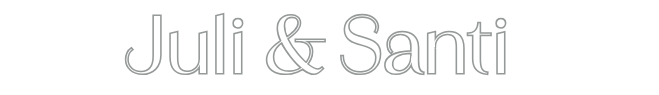
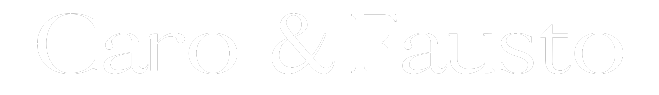
udpate images

diff --git a/frontend/src/components/MainHeadline/MainHeadline.jsx b/frontend/src/components/MainHeadline/MainHeadline.jsx
@@ -2,19 +2,9 @@ const MainHeadline = () => {
    return (
       
       <section className="z-50 flex flex-col items-center gap-5 absolute inset-0 mx-auto top-[40%] lg:top-[35%]">
-         <br></br>
-         <br></br>
-         <br></br>
-         <br></br>
-         <br></br>
-         <br></br>
-         <br></br>
-         <br></br>
-         <br></br>
          <img src="/assets/images/names.png" alt="" className="w-72 lg:w-96"/>
-         <hr className="w-44 border-1 border-green " />
          <h3 className="text-center text-white text-[16px] mt-2 drop-shadow-lg lg:text-[24px]">
-            8 de febrero 2025
+            9 de marzo 2025
          </h3>
       </section>
    )

diff --git a/frontend/index.html b/frontend/index.html
@@ -4,7 +4,7 @@
     <meta charset="UTF-8" />
     <link rel="shortcut icon" href="/assets/images/favicon.png" type="image/x-icon">
     <meta name="viewport" content="width=device-width, initial-scale=1.0" />
-    <title>Julieta y Santiago</title>
+    <title>Caro y Fausto</title>
   </head>
   <body>
     <div id="root"></div>
